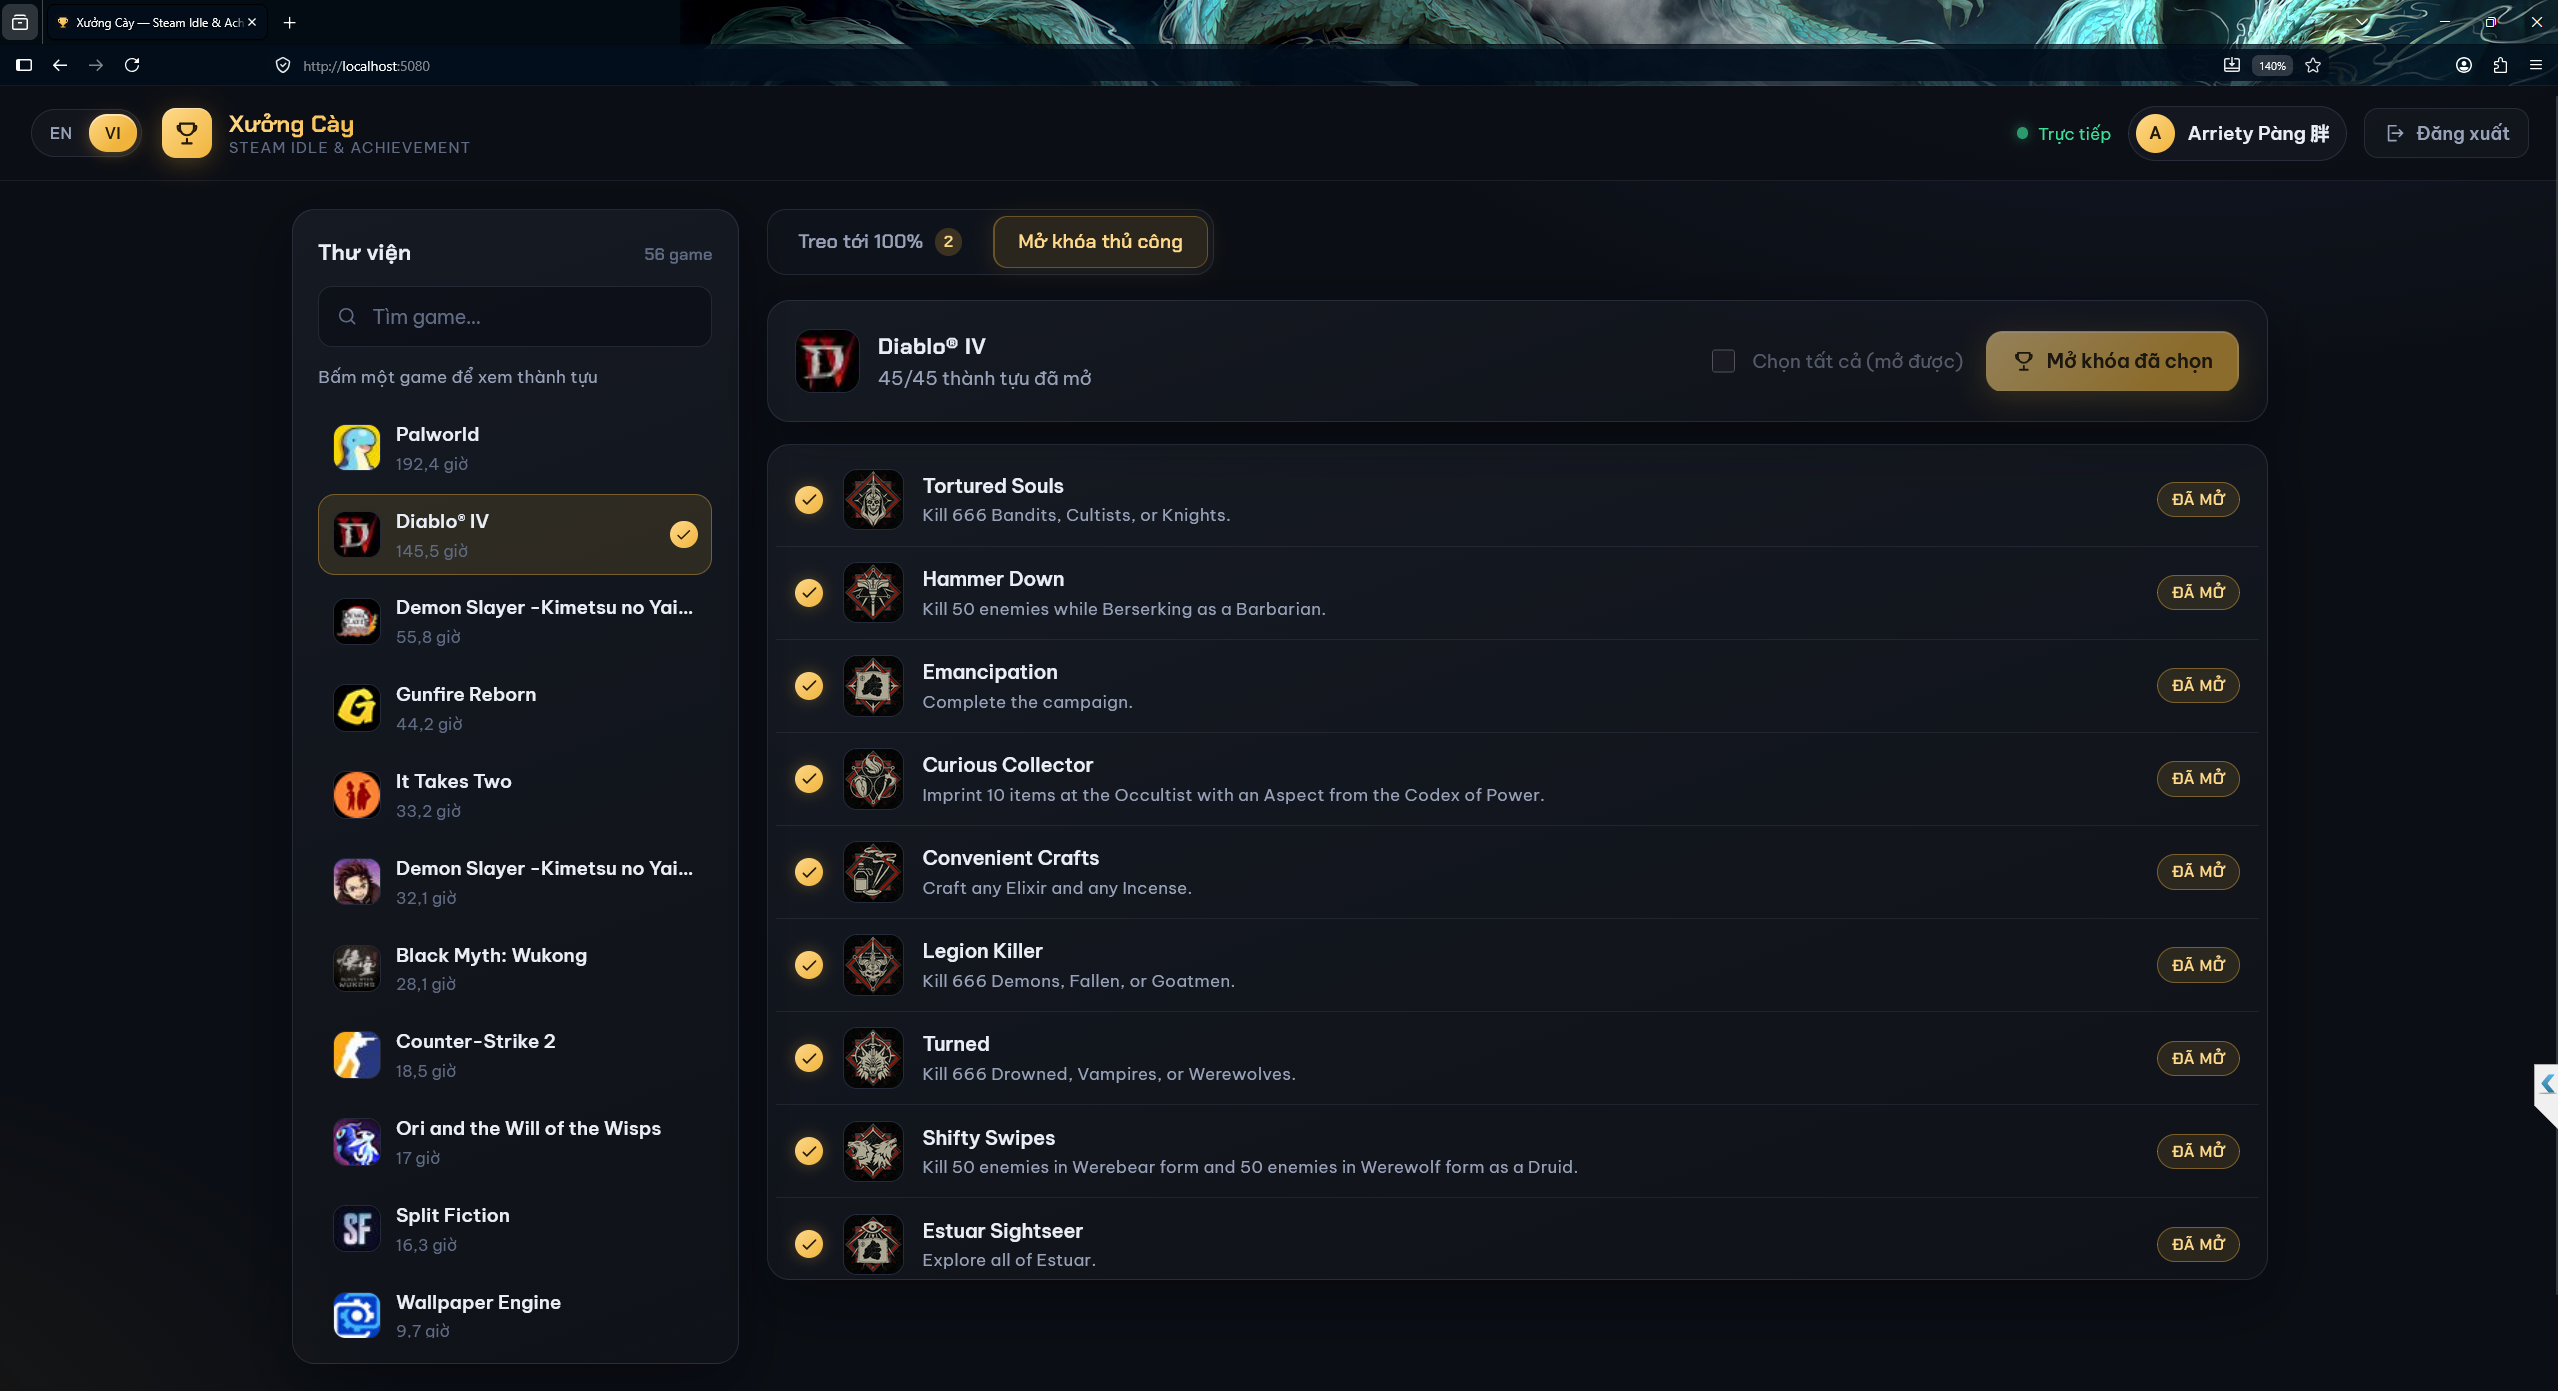
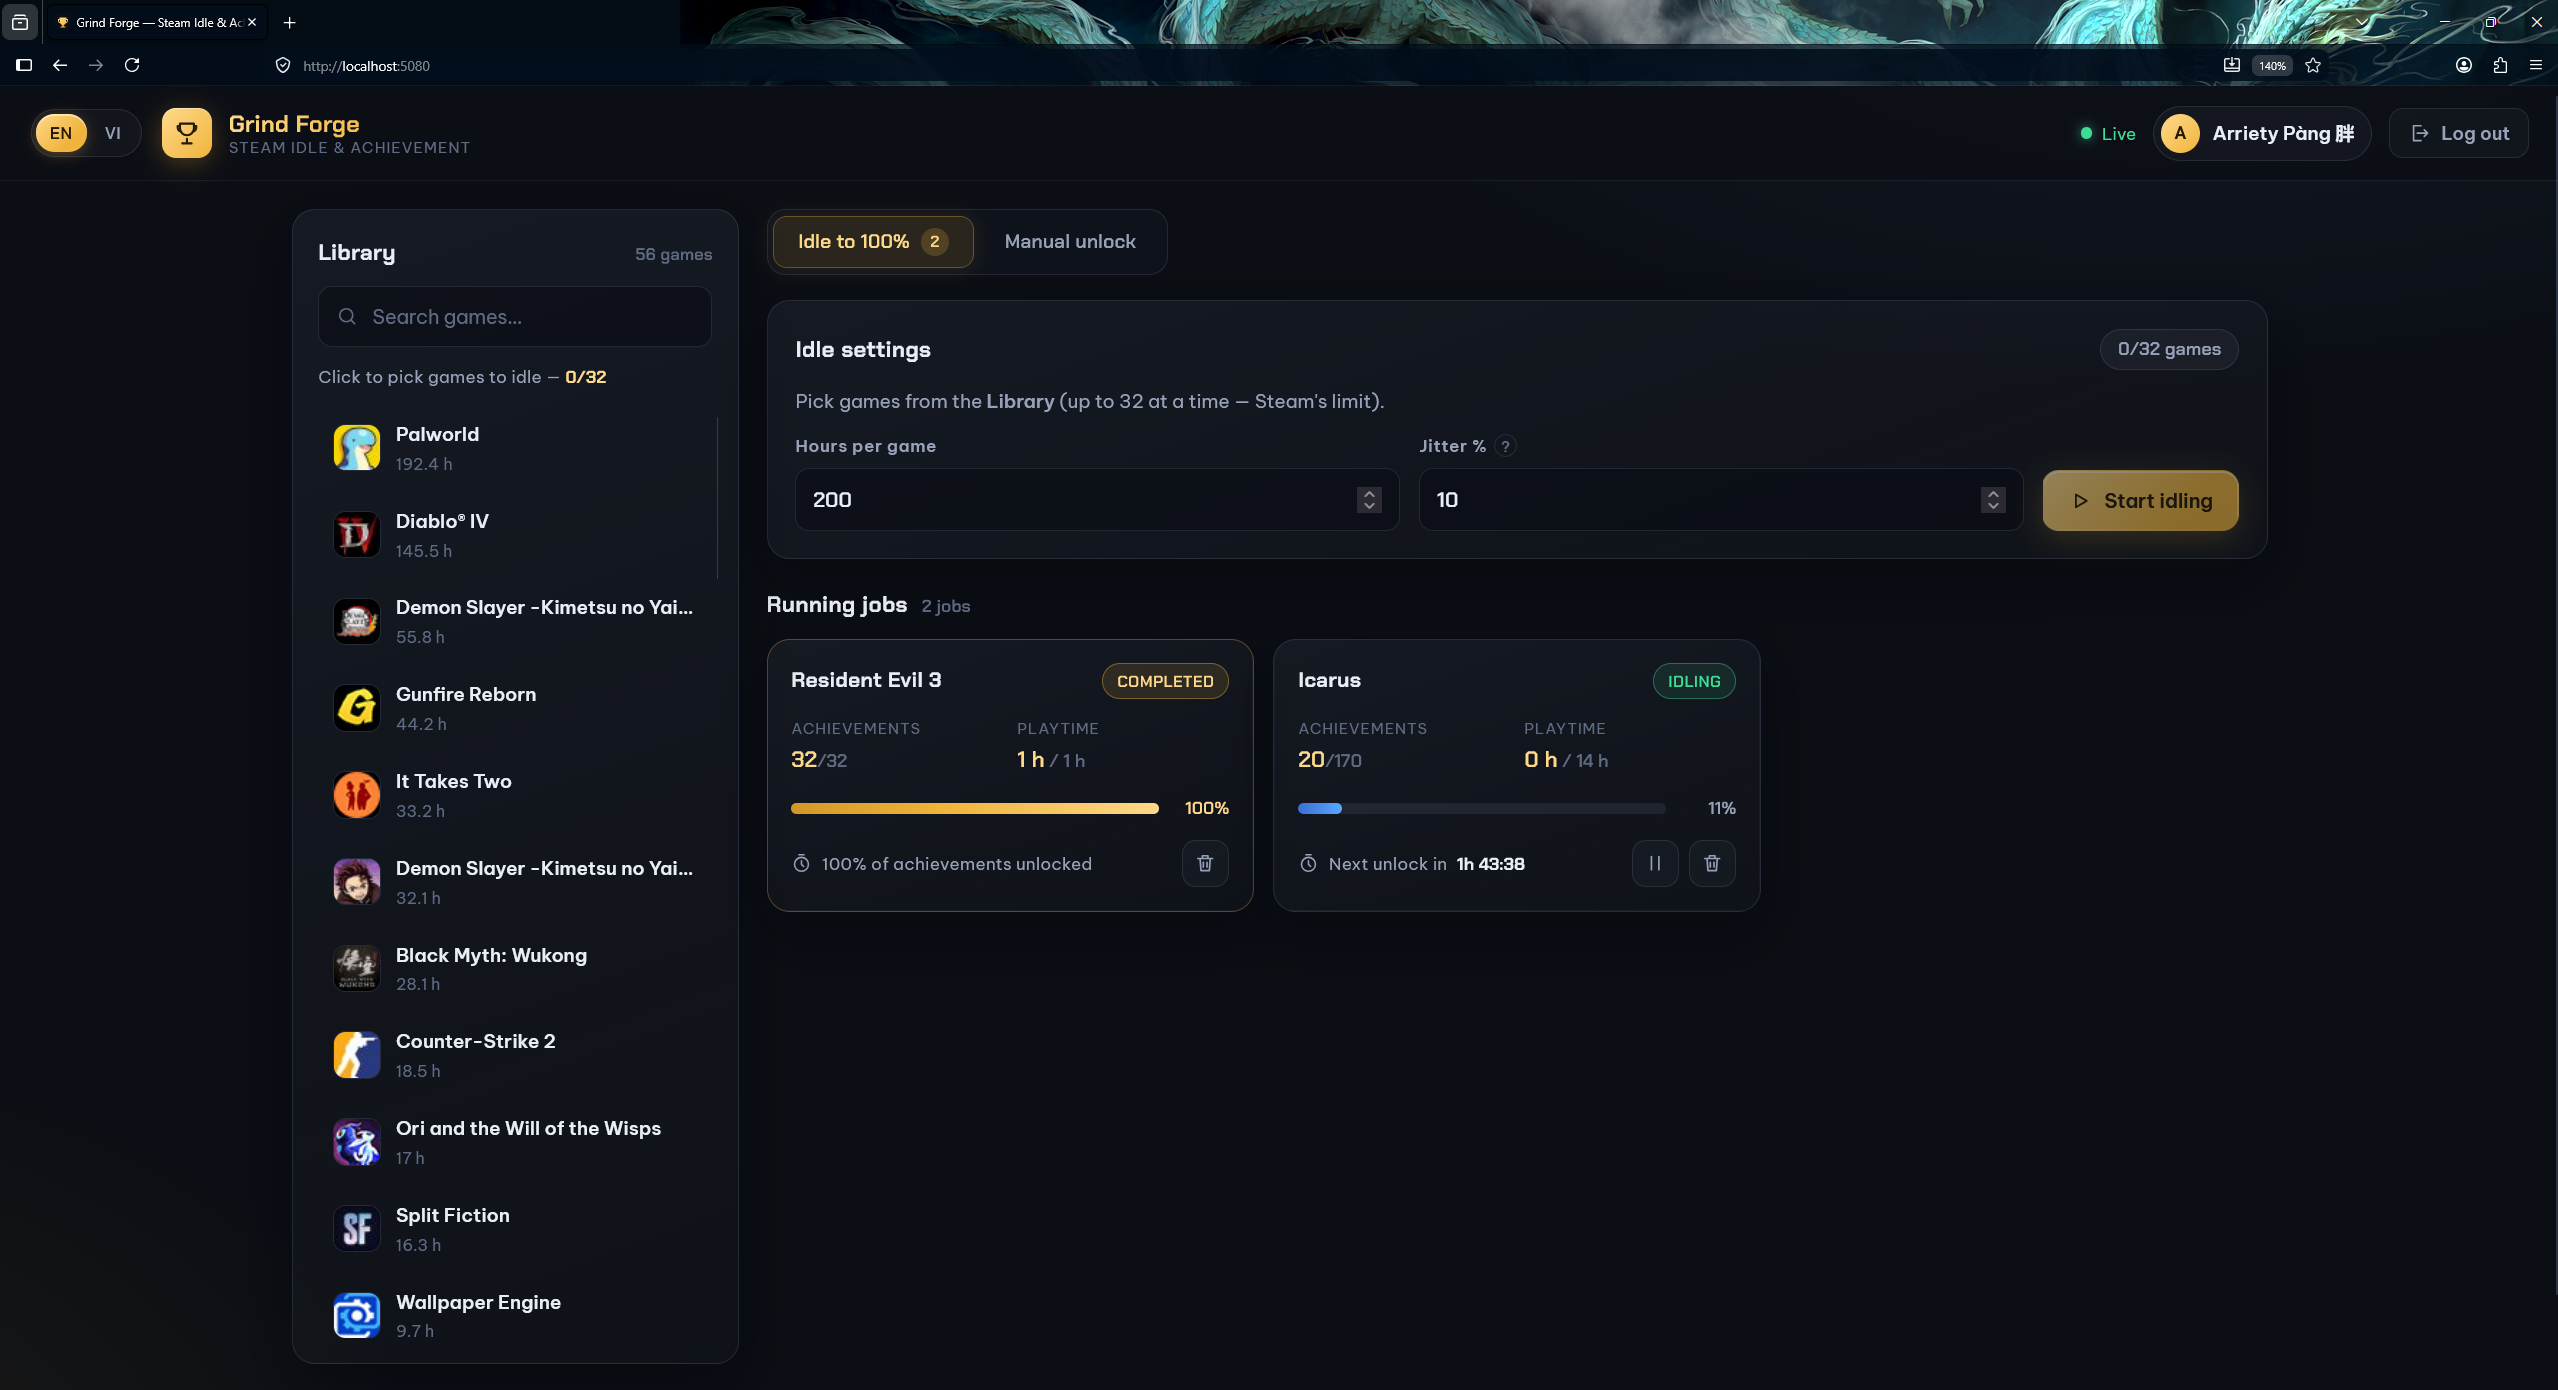
Update the screenshot to the English UI and match the caption

diff --git a/README.md b/README.md
@@ -12,16 +12,16 @@ and let it farm playtime and achievements on your own account — 24/7, from any
 [![React](https://img.shields.io/badge/React-19-61DAFB?style=flat-square&logo=react&logoColor=black)](#stack)
 [![Stars](https://img.shields.io/github/stars/arrietybeu/SteamIdleFarmer?style=flat-square&color=f0b43c)](https://github.com/arrietybeu/SteamIdleFarmer/stargazers)
 
-<img src="assets/Screenshot.png" alt="Grind Forge — the manual achievement unlock view" width="100%">
+<img src="assets/Screenshot.png" alt="Grind Forge — idling two games toward 100% achievements" width="100%">
 
 </div>
 
-> *The manual-unlock view. Your Steam library sits on the left with real playtime per game;
-> pick one and it loads every achievement that game has — icon, description, and current state.
-> Diablo IV here is finished at 45/45. Tick whichever ones you want and hit unlock. Achievements
-> the publisher locks server-side are detected and disabled up front, so a run never silently
-> stalls on something that can't be set. The whole interface runs in English or Vietnamese and
-> updates live over WebSocket — the other tab, "Idle to 100%", is where long unattended runs live.*
+> *The "Idle to 100%" tab mid-run. Your Steam library sits on the left with real playtime per game;
+> pick up to 32, set a target in hours, and each game gets its own drip schedule. Resident Evil 3 has
+> finished here — 32/32 achievements across a one-hour target — while Icarus is 20/170 in with the
+> next unlock counting down. Progress is measured in accrued idling time, so pausing or rebooting
+> freezes it instead of skipping ahead. The other tab, "Manual unlock", lets you tick achievements
+> and grant them instantly. Everything runs in English or Vietnamese and updates live over WebSocket.*
 
 ---
 
